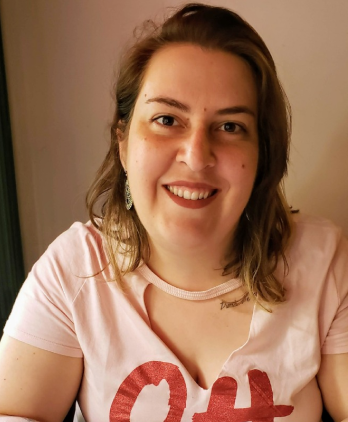
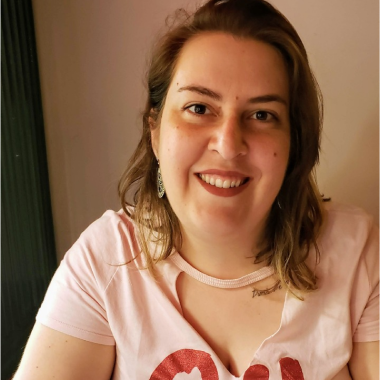
finished page Quem sou eu

diff --git a/src/Pages/Quem-sou-eu/Quem-sou-eu.js b/src/Pages/Quem-sou-eu/Quem-sou-eu.js
@@ -2,15 +2,32 @@ import React from "react";
 import NavBar from "../../components/NavBar/NavBar";
 import Footer from "../../components/Footer/Footer";
 import Profile from "../../assets/profile1.png"
+import GitHub from "../../assets/github-logo.png"
 import "./quem-sou-eu.css";
+
+
 
 const navLinks = [{ description: "Colabore", path: "/colabore" }];
 
 const QuemSouEu = () => {
   return <React.Fragment>
       <NavBar links={navLinks}/>
-      <img src={Profile}/>
+      <main className="main--container text-center mt-5 mb-5">
+      <img className="profile--img img-fluid justify-content" src={Profile}/>
+      <p className=" profile--paragraph mt-5 mx-5 px-5 text-center">Olá! Eu sou a <strong>Raquel</strong>, moro em São Bernardo do Campo-São Paulo com minha esposa e meus dois gatos Julieta e Cisco. 
+Da curiosidade em tecnologia e da necessidade de me reinventar profissionalmente veio a ideia de entrar no Reprograma e começar uma nova carreira, e aqui estou eu! :)
+Niro nasceu do meu amor por livros,  e incomodo de ver que a maioria dos livros que temos acesso são de autores dos Estados Unidos ou Reino Unido e quis trazes outras possibilidades!<br/>
 
+Espero que gostem! </p>
+<section>
+  <p>Me mande um oi </p>
+<a href="https://github.com/RaquelMagnani">GitHub</a> <br/>
+<a href="https://www.linkedin.com/in/raquel-magnani-pinheiro/" >LinKedin</a>
+  
+</section>
+</main>
+
+    <Footer/>
   </React.Fragment>;
 };
 

diff --git a/src/Pages/Home/Home.js b/src/Pages/Home/Home.js
@@ -16,15 +16,15 @@ class Home extends Component {
   }
   render() {
     const navLinks = [
-      { description: "Sobre", path: "#sobre" },
+      { description: "Saiba mais", path: "#sobre" },
       { description: "Descubra", path: "#descubra" },
-      { description: "Colabore", path: "/colabore"} ,
-      { description: "Quem sou eu", path: "/quem-sou-eu"}
+      { description: "Colabore", path: "/colabore" },
+      { description: "Quem sou eu", path: "/quem-sou-eu" },
     ];
 
     return (
       <>
-        <NavBar links= {navLinks} />
+        <NavBar links={navLinks} />
 
         <header>
           <div className="container">
@@ -110,10 +110,11 @@ class Home extends Component {
               {this.state.continent !== "" ? (
                 <ContinentList continent={this.state.continent} />
               ) : null}
-              
 
-              <h5 className="mt-5 ">Tem mais alguem para indicar? <Link to ="/colabore">Colabore</Link></h5>
-              
+              <h5 className="mt-5 text-center ">
+                Tem mais alguem para indicar?{" "}
+                <Link to="/colabore">Colabore</Link>
+              </h5>
             </div>
           </div>
         </main>

diff --git a/src/components/ContinentList/ContinentList.js b/src/components/ContinentList/ContinentList.js
@@ -1,5 +1,5 @@
 import React, {Component} from 'react';
-import {Row} from "reactstrap";
+import {Row, Col} from "reactstrap";
 import AuthorCard from '../AuthorCard/AuthorCard'
 import './continentList.css'
 import DropDown from '../DropDown/DropDown';
@@ -25,9 +25,13 @@ class ContinentList extends Component {
       return (
         <>
         <Row>
-       
-        </Row>
+       <Col md='12'>
+       <h2 className="mt-3" >{continent}</h2>
+       </Col>
+        </Row >
+
         <Row className="container mt-5">
+          
           {filterContinent(authors,continent).map((book) => (
             <AuthorCard name={book.Autor} 
             pais={book.Pais}/>

diff --git a/src/components/AuthorCard/AuthorCard.js b/src/components/AuthorCard/AuthorCard.js
@@ -7,7 +7,7 @@ const AuthorCard =(props)=>{
 
     return (
       
-          <Col sm="3">
+          <Col sm="4">
             <Card className=" card-container" body>
               <CardTitle>{props.name}</CardTitle>
               <CardText>{props.pais} </CardText>

diff --git a/src/Pages/Quem-sou-eu/quem-sou-eu.css b/src/Pages/Quem-sou-eu/quem-sou-eu.css
@@ -1,0 +1,10 @@
+.profile--img{
+    border-radius: 50%;
+    
+    width: 250px;
+}
+
+.profile--paragraph{
+    line-height: 30px;
+
+}
